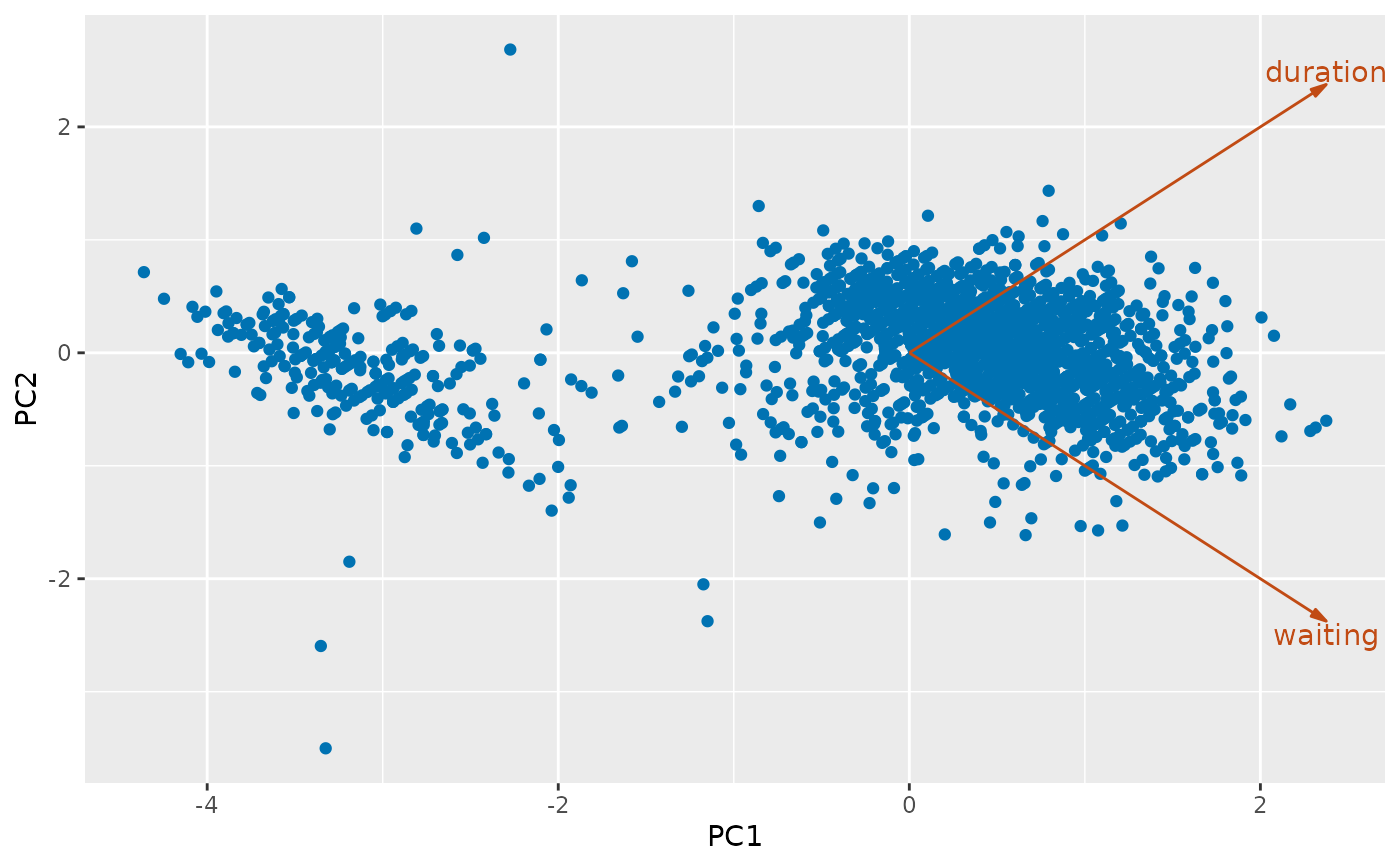
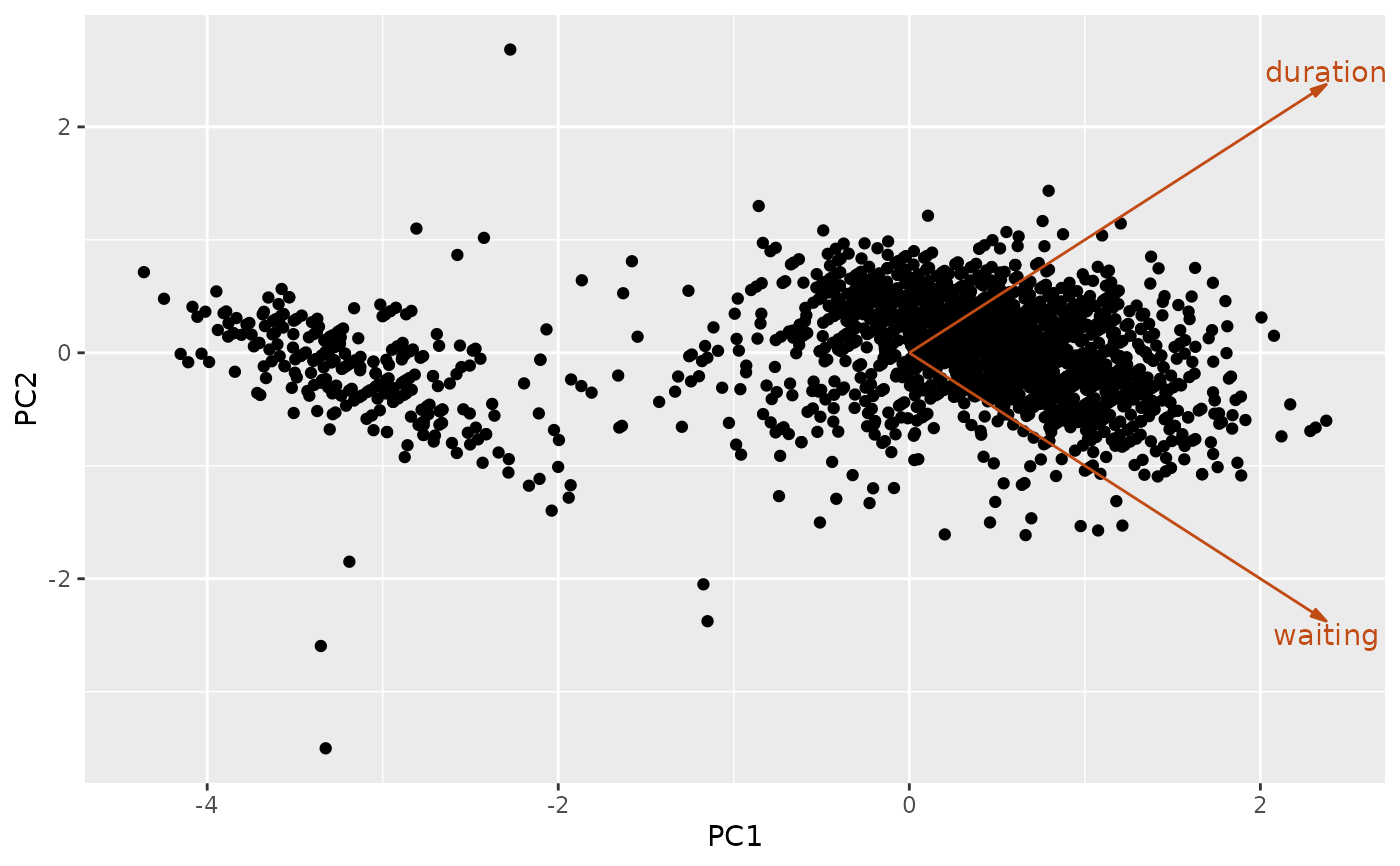
Deploying to gh-pages from @ robjhyndman/weird@13a9235543667b1b405db64c0d79a05ff12488f4 🚀

diff --git a/reference/biplot_projection.html b/reference/biplot_projection.html
@@ -1,15 +1,17 @@
 <!DOCTYPE html>
 <!-- Generated by pkgdown: do not edit by hand --><html lang="en"><head><meta http-equiv="Content-Type" content="text/html; charset=UTF-8"><meta charset="utf-8"><meta http-equiv="X-UA-Compatible" content="IE=edge"><meta name="viewport" content="width=device-width, initial-scale=1, shrink-to-fit=no"><title>Biplot of a two-dimensional projection — biplot_projection • weird</title><!-- katex math --><link rel="stylesheet" href="https://cdn.jsdelivr.net/npm/katex@0.16.11/dist/katex.min.css" integrity="sha384-nB0miv6/jRmo5UMMR1wu3Gz6NLsoTkbqJghGIsx//Rlm+ZU03BU6SQNC66uf4l5+" crossorigin="anonymous"><script defer src="https://cdn.jsdelivr.net/npm/katex@0.16.11/dist/katex.min.js" integrity="sha384-7zkQWkzuo3B5mTepMUcHkMB5jZaolc2xDwL6VFqjFALcbeS9Ggm/Yr2r3Dy4lfFg" crossorigin="anonymous"></script><script defer src="https://cdn.jsdelivr.net/npm/katex@0.16.11/dist/contrib/auto-render.min.js" integrity="sha384-43gviWU0YVjaDtb/GhzOouOXtZMP/7XUzwPTstBeZFe/+rCMvRwr4yROQP43s0Xk" crossorigin="anonymous" onload="renderMathInElement(document.body);"></script><script src="../katex-auto.js"></script><script src="../deps/jquery-3.6.0/jquery-3.6.0.min.js"></script><meta name="viewport" content="width=device-width, initial-scale=1, shrink-to-fit=no"><link href="../deps/bootstrap-5.3.8/bootstrap.min.css" rel="stylesheet"><script src="../deps/bootstrap-5.3.8/bootstrap.bundle.min.js"></script><link href="../deps/Fira_Sans-0.4.10/font.css" rel="stylesheet"><link href="../deps/font-awesome-6.5.2/css/all.min.css" rel="stylesheet"><link href="../deps/font-awesome-6.5.2/css/v4-shims.min.css" rel="stylesheet"><script src="../deps/headroom-0.11.0/headroom.min.js"></script><script src="../deps/headroom-0.11.0/jQuery.headroom.min.js"></script><script src="../deps/bootstrap-toc-1.0.1/bootstrap-toc.min.js"></script><script src="../deps/clipboard.js-2.0.11/clipboard.min.js"></script><script src="../deps/search-1.0.0/autocomplete.jquery.min.js"></script><script src="../deps/search-1.0.0/fuse.min.js"></script><script src="../deps/search-1.0.0/mark.min.js"></script><!-- pkgdown --><script src="../pkgdown.js"></script><link href="../extra.css" rel="stylesheet"><meta property="og:title" content="Biplot of a two-dimensional projection — biplot_projection"><meta name="description" content="Draw a two-dimensional projection of the scores with the
 original variable axes overlaid as arrows (loadings), as in a biplot. Pass
-object (the output of stats::prcomp() or an rrcov Pca* function);
-otherwise supply scores and loadings directly. The arrows are stretched
-by a common factor so that the longest arrow just reaches the edge of the
-point cloud, and only loadings longer than label_threshold are labelled."><meta property="og:description" content="Draw a two-dimensional projection of the scores with the
+object (the output of stats::prcomp() or an rrcov::Pca* function);
+otherwise supply scores and loadings directly. All scores should be
+centred about the origin. The arrows are stretched by a common factor so that
+the longest arrow just reaches the edge of the point cloud, and only loadings
+longer than label_threshold are labelled."><meta property="og:description" content="Draw a two-dimensional projection of the scores with the
 original variable axes overlaid as arrows (loadings), as in a biplot. Pass
-object (the output of stats::prcomp() or an rrcov Pca* function);
-otherwise supply scores and loadings directly. The arrows are stretched
-by a common factor so that the longest arrow just reaches the edge of the
-point cloud, and only loadings longer than label_threshold are labelled."><link rel="stylesheet" href="https://cdn.jsdelivr.net/npm/hack-font@3/build/web/hack-subset.css"></head><body>
+object (the output of stats::prcomp() or an rrcov::Pca* function);
+otherwise supply scores and loadings directly. All scores should be
+centred about the origin. The arrows are stretched by a common factor so that
+the longest arrow just reaches the edge of the point cloud, and only loadings
+longer than label_threshold are labelled."><link rel="stylesheet" href="https://cdn.jsdelivr.net/npm/hack-font@3/build/web/hack-subset.css"></head><body>
     <a href="#main" class="visually-hidden-focusable">Skip to contents</a>
 
 
@@ -46,10 +48,11 @@ point cloud, and only loadings longer than label_threshold are labelled."><link 
     <div class="ref-description section level2">
     <p>Draw a two-dimensional projection of the scores with the
 original variable axes overlaid as arrows (loadings), as in a biplot. Pass
-<code>object</code> (the output of <code><a href="https://rdrr.io/r/stats/prcomp.html" class="external-link">stats::prcomp()</a></code> or an rrcov <code>Pca*</code> function);
-otherwise supply <code>scores</code> and <code>loadings</code> directly. The arrows are stretched
-by a common factor so that the longest arrow just reaches the edge of the
-point cloud, and only loadings longer than <code>label_threshold</code> are labelled.</p>
+<code>object</code> (the output of <code><a href="https://rdrr.io/r/stats/prcomp.html" class="external-link">stats::prcomp()</a></code> or an <code>rrcov::Pca*</code> function);
+otherwise supply <code>scores</code> and <code>loadings</code> directly. All scores should be
+centred about the origin. The arrows are stretched by a common factor so that
+the longest arrow just reaches the edge of the point cloud, and only loadings
+longer than <code>label_threshold</code> are labelled.</p>
     </div>
 
     <div class="section level2">
@@ -59,9 +62,8 @@ point cloud, and only loadings longer than <code>label_threshold</code> are labe
 <span>  scores <span class="op">=</span> <span class="cn">NULL</span>,</span>
 <span>  loadings <span class="op">=</span> <span class="cn">NULL</span>,</span>
 <span>  label_threshold <span class="op">=</span> <span class="fl">0</span>,</span>
-<span>  alpha <span class="op">=</span> <span class="fl">1</span>,</span>
-<span>  point_colour <span class="op">=</span> <span class="st">"#0072B2"</span>,</span>
-<span>  arrow_colour <span class="op">=</span> <span class="st">"#c14b14"</span></span>
+<span>  arrow_colour <span class="op">=</span> <span class="st">"#c14b14"</span>,</span>
+<span>  <span class="va">...</span></span>
 <span><span class="op">)</span></span></code></pre></div>
     </div>
 
@@ -70,15 +72,15 @@ point cloud, and only loadings longer than <code>label_threshold</code> are labe
 
 
 <dl><dt id="arg-object">object<a class="anchor" aria-label="anchor" href="#arg-object"></a></dt>
-<dd><p>Optionally, the output of <code><a href="https://rdrr.io/r/stats/prcomp.html" class="external-link">stats::prcomp()</a></code> or an rrcov <code>Pca*</code>
+<dd><p>Optionally, the output of <code><a href="https://rdrr.io/r/stats/prcomp.html" class="external-link">stats::prcomp()</a></code> or an <code>rrcov::Pca*</code>
 function. If supplied, the scores and loadings are extracted from it and the
 <code>scores</code> and <code>loadings</code> arguments are ignored.</p></dd>
 
 
 <dt id="arg-scores">scores<a class="anchor" aria-label="anchor" href="#arg-scores"></a></dt>
-<dd><p>A matrix or data frame of scores, with the first two columns
-used as the horizontal and vertical coordinates. Ignored if <code>object</code> is
-supplied.</p></dd>
+<dd><p>A matrix or data frame of scores centred about the origin,
+with the first two columns used as the horizontal and vertical coordinates.
+Ignored if <code>object</code> is supplied.</p></dd>
 
 
 <dt id="arg-loadings">loadings<a class="anchor" aria-label="anchor" href="#arg-loadings"></a></dt>
@@ -88,26 +90,26 @@ Ignored if <code>object</code> is supplied.</p></dd>
 
 
 <dt id="arg-label-threshold">label_threshold<a class="anchor" aria-label="anchor" href="#arg-label-threshold"></a></dt>
-<dd><p>Only loadings whose squared length exceeds this
-threshold are labelled. The default of <code>0</code> labels every loading.</p></dd>
-
-
-<dt id="arg-alpha">alpha<a class="anchor" aria-label="anchor" href="#arg-alpha"></a></dt>
-<dd><p>The transparency of the points and arrows, between <code>0</code> (fully
-transparent) and <code>1</code> (fully opaque).</p></dd>
-
-
-<dt id="arg-point-colour">point_colour<a class="anchor" aria-label="anchor" href="#arg-point-colour"></a></dt>
-<dd><p>Colour of the points.</p></dd>
+<dd><p>Only loadings whose absolute length exceeds this
+threshold are labelled. The default of <code>0</code> labels every non-zero loading.</p></dd>
 
 
 <dt id="arg-arrow-colour">arrow_colour<a class="anchor" aria-label="anchor" href="#arg-arrow-colour"></a></dt>
 <dd><p>Colour of the arrows and labels.</p></dd>
 
+
+<dt id="arg--">...<a class="anchor" aria-label="anchor" href="#arg--"></a></dt>
+<dd><p>Additional arguments passed to <code><a href="https://ggplot2.tidyverse.org/reference/geom_point.html" class="external-link">ggplot2::geom_point()</a></code>.</p></dd>
+
 </dl></div>
     <div class="section level2">
     <h2 id="value">Value<a class="anchor" aria-label="anchor" href="#value"></a></h2>
     <p>A <code>ggplot</code> object.</p>
+    </div>
+    <div class="section level2">
+    <h2 id="references">References<a class="anchor" aria-label="anchor" href="#references"></a></h2>
+    <p>Hyndman, R J (2026) "That's weird: Anomaly detection using R",
+Chapter 9, <a href="https://OTexts.com/weird/" class="external-link">https://OTexts.com/weird/</a>.</p>
     </div>
     <div class="section level2">
     <h2 id="author">Author<a class="anchor" aria-label="anchor" href="#author"></a></h2>

diff --git a/reference/outlier_map.html b/reference/outlier_map.html
@@ -119,7 +119,6 @@ ignored when <code>scores</code> and <code>loadings</code> are passed directly.<
 <span>  scores <span class="op">=</span> <span class="cn">NULL</span>,</span>
 <span>  loadings <span class="op">=</span> <span class="cn">NULL</span>,</span>
 <span>  show_thresholds <span class="op">=</span> <span class="cn">TRUE</span>,</span>
-<span>  alpha <span class="op">=</span> <span class="fl">0.7</span>,</span>
 <span>  <span class="va">...</span></span>
 <span><span class="op">)</span></span></code></pre></div>
     </div>
@@ -136,8 +135,9 @@ ignored.</p></dd>
 
 
 <dt id="arg-data">data<a class="anchor" aria-label="anchor" href="#arg-data"></a></dt>
-<dd><p>The original data matrix or data frame used to compute the PCA.
-Required to compute the orthogonal distances, except when <code>object</code> is an
+<dd><p>The original data matrix or data frame used to compute the
+projection, scaled if the projection was computed on scaled data. This is
+required to compute the orthogonal distances, except when <code>object</code> is a
 rrcov <code>Pca*</code> object (which stores them).</p></dd>
 
 
@@ -156,11 +156,6 @@ retained component. Ignored if <code>object</code> is supplied.</p></dd>
 object, the score-distance and orthogonal-distance cutoffs are drawn as
 dashed lines and observations are coloured by type. Ignored when <code>scores</code>
 and <code>loadings</code> are passed directly.</p></dd>
-
-
-<dt id="arg-alpha">alpha<a class="anchor" aria-label="anchor" href="#arg-alpha"></a></dt>
-<dd><p>The transparency of the points, between <code>0</code> (fully transparent)
-and <code>1</code> (fully opaque).</p></dd>
 
 
 <dt id="arg--">...<a class="anchor" aria-label="anchor" href="#arg--"></a></dt>

diff --git a/reference/augment.Pca.html b/reference/augment.Pca.html
@@ -1,12 +1,12 @@
 <!DOCTYPE html>
-<!-- Generated by pkgdown: do not edit by hand --><html lang="en"><head><meta http-equiv="Content-Type" content="text/html; charset=UTF-8"><meta charset="utf-8"><meta http-equiv="X-UA-Compatible" content="IE=edge"><meta name="viewport" content="width=device-width, initial-scale=1, shrink-to-fit=no"><title>Augment data with results from a robust principal component analysis — augment.Pca • weird</title><!-- katex math --><link rel="stylesheet" href="https://cdn.jsdelivr.net/npm/katex@0.16.11/dist/katex.min.css" integrity="sha384-nB0miv6/jRmo5UMMR1wu3Gz6NLsoTkbqJghGIsx//Rlm+ZU03BU6SQNC66uf4l5+" crossorigin="anonymous"><script defer src="https://cdn.jsdelivr.net/npm/katex@0.16.11/dist/katex.min.js" integrity="sha384-7zkQWkzuo3B5mTepMUcHkMB5jZaolc2xDwL6VFqjFALcbeS9Ggm/Yr2r3Dy4lfFg" crossorigin="anonymous"></script><script defer src="https://cdn.jsdelivr.net/npm/katex@0.16.11/dist/contrib/auto-render.min.js" integrity="sha384-43gviWU0YVjaDtb/GhzOouOXtZMP/7XUzwPTstBeZFe/+rCMvRwr4yROQP43s0Xk" crossorigin="anonymous" onload="renderMathInElement(document.body);"></script><script src="../katex-auto.js"></script><script src="../deps/jquery-3.6.0/jquery-3.6.0.min.js"></script><meta name="viewport" content="width=device-width, initial-scale=1, shrink-to-fit=no"><link href="../deps/bootstrap-5.3.8/bootstrap.min.css" rel="stylesheet"><script src="../deps/bootstrap-5.3.8/bootstrap.bundle.min.js"></script><link href="../deps/Fira_Sans-0.4.10/font.css" rel="stylesheet"><link href="../deps/font-awesome-6.5.2/css/all.min.css" rel="stylesheet"><link href="../deps/font-awesome-6.5.2/css/v4-shims.min.css" rel="stylesheet"><script src="../deps/headroom-0.11.0/headroom.min.js"></script><script src="../deps/headroom-0.11.0/jQuery.headroom.min.js"></script><script src="../deps/bootstrap-toc-1.0.1/bootstrap-toc.min.js"></script><script src="../deps/clipboard.js-2.0.11/clipboard.min.js"></script><script src="../deps/search-1.0.0/autocomplete.jquery.min.js"></script><script src="../deps/search-1.0.0/fuse.min.js"></script><script src="../deps/search-1.0.0/mark.min.js"></script><!-- pkgdown --><script src="../pkgdown.js"></script><link href="../extra.css" rel="stylesheet"><meta property="og:title" content="Augment data with results from a robust principal component analysis — augment.Pca"><meta name="description" content="Augment the data with information from an rrcov Pca* object
+<!-- Generated by pkgdown: do not edit by hand --><html lang="en"><head><meta http-equiv="Content-Type" content="text/html; charset=UTF-8"><meta charset="utf-8"><meta http-equiv="X-UA-Compatible" content="IE=edge"><meta name="viewport" content="width=device-width, initial-scale=1, shrink-to-fit=no"><title>Augment data with results from a robust principal component analysis — augment.Pca • weird</title><!-- katex math --><link rel="stylesheet" href="https://cdn.jsdelivr.net/npm/katex@0.16.11/dist/katex.min.css" integrity="sha384-nB0miv6/jRmo5UMMR1wu3Gz6NLsoTkbqJghGIsx//Rlm+ZU03BU6SQNC66uf4l5+" crossorigin="anonymous"><script defer src="https://cdn.jsdelivr.net/npm/katex@0.16.11/dist/katex.min.js" integrity="sha384-7zkQWkzuo3B5mTepMUcHkMB5jZaolc2xDwL6VFqjFALcbeS9Ggm/Yr2r3Dy4lfFg" crossorigin="anonymous"></script><script defer src="https://cdn.jsdelivr.net/npm/katex@0.16.11/dist/contrib/auto-render.min.js" integrity="sha384-43gviWU0YVjaDtb/GhzOouOXtZMP/7XUzwPTstBeZFe/+rCMvRwr4yROQP43s0Xk" crossorigin="anonymous" onload="renderMathInElement(document.body);"></script><script src="../katex-auto.js"></script><script src="../deps/jquery-3.6.0/jquery-3.6.0.min.js"></script><meta name="viewport" content="width=device-width, initial-scale=1, shrink-to-fit=no"><link href="../deps/bootstrap-5.3.8/bootstrap.min.css" rel="stylesheet"><script src="../deps/bootstrap-5.3.8/bootstrap.bundle.min.js"></script><link href="../deps/Fira_Sans-0.4.10/font.css" rel="stylesheet"><link href="../deps/font-awesome-6.5.2/css/all.min.css" rel="stylesheet"><link href="../deps/font-awesome-6.5.2/css/v4-shims.min.css" rel="stylesheet"><script src="../deps/headroom-0.11.0/headroom.min.js"></script><script src="../deps/headroom-0.11.0/jQuery.headroom.min.js"></script><script src="../deps/bootstrap-toc-1.0.1/bootstrap-toc.min.js"></script><script src="../deps/clipboard.js-2.0.11/clipboard.min.js"></script><script src="../deps/search-1.0.0/autocomplete.jquery.min.js"></script><script src="../deps/search-1.0.0/fuse.min.js"></script><script src="../deps/search-1.0.0/mark.min.js"></script><!-- pkgdown --><script src="../pkgdown.js"></script><link href="../extra.css" rel="stylesheet"><meta property="og:title" content="Augment data with results from a robust principal component analysis — augment.Pca"><meta name="description" content="Augment the data with information from an rrcov::Pca* object
 (such as the output of rrcov::PcaHubert() or rrcov::PcaClassic()). The
 returned tibble contains the principal component scores (.fittedPC1,
 .fittedPC2, ...), the score distance (.sd) and the orthogonal distance
 (.od) of each observation. The score distance measures how far an
 observation lies from the centre within the projection subspace, while the
 orthogonal distance measures how far it lies from the subspace. If data
-is supplied, its columns are returned alongside these results."><meta property="og:description" content="Augment the data with information from an rrcov Pca* object
+is supplied, its columns are returned alongside these results."><meta property="og:description" content="Augment the data with information from an rrcov::Pca* object
 (such as the output of rrcov::PcaHubert() or rrcov::PcaClassic()). The
 returned tibble contains the principal component scores (.fittedPC1,
 .fittedPC2, ...), the score distance (.sd) and the orthogonal distance
@@ -48,7 +48,7 @@ is supplied, its columns are returned alongside these results."><link rel="style
     </div>
 
     <div class="ref-description section level2">
-    <p>Augment the data with information from an rrcov <code>Pca*</code> object
+    <p>Augment the data with information from an <code>rrcov::Pca*</code> object
 (such as the output of <code><a href="https://rdrr.io/pkg/rrcov/man/PcaHubert.html" class="external-link">rrcov::PcaHubert()</a></code> or <code><a href="https://rdrr.io/pkg/rrcov/man/PcaClassic.html" class="external-link">rrcov::PcaClassic()</a></code>). The
 returned tibble contains the principal component scores (<code>.fittedPC1</code>,
 <code>.fittedPC2</code>, ...), the score distance (<code>.sd</code>) and the orthogonal distance
@@ -69,7 +69,7 @@ is supplied, its columns are returned alongside these results.</p>
 
 
 <dl><dt id="arg-x">x<a class="anchor" aria-label="anchor" href="#arg-x"></a></dt>
-<dd><p>An rrcov <code>Pca*</code> object.</p></dd>
+<dd><p>An <code>rrcov::Pca*</code> object.</p></dd>
 
 
 <dt id="arg-data">data<a class="anchor" aria-label="anchor" href="#arg-data"></a></dt>

diff --git a/reference/biplot_projection.md b/reference/biplot_projection.md
@@ -3,11 +3,12 @@
 Draw a two-dimensional projection of the scores with the original
 variable axes overlaid as arrows (loadings), as in a biplot. Pass
 `object` (the output of
-[`stats::prcomp()`](https://rdrr.io/r/stats/prcomp.html) or an rrcov
-`Pca*` function); otherwise supply `scores` and `loadings` directly. The
-arrows are stretched by a common factor so that the longest arrow just
-reaches the edge of the point cloud, and only loadings longer than
-`label_threshold` are labelled.
+[`stats::prcomp()`](https://rdrr.io/r/stats/prcomp.html) or an
+`rrcov::Pca*` function); otherwise supply `scores` and `loadings`
+directly. All scores should be centred about the origin. The arrows are
+stretched by a common factor so that the longest arrow just reaches the
+edge of the point cloud, and only loadings longer than `label_threshold`
+are labelled.
 
 ## Usage
 
@@ -17,9 +18,8 @@ biplot_projection(
   scores = NULL,
   loadings = NULL,
   label_threshold = 0,
-  alpha = 1,
-  point_colour = "#0072B2",
-  arrow_colour = "#c14b14"
+  arrow_colour = "#c14b14",
+  ...
 )
 ```
 
@@ -28,15 +28,16 @@ biplot_projection(
 - object:
 
   Optionally, the output of
-  [`stats::prcomp()`](https://rdrr.io/r/stats/prcomp.html) or an rrcov
-  `Pca*` function. If supplied, the scores and loadings are extracted
-  from it and the `scores` and `loadings` arguments are ignored.
+  [`stats::prcomp()`](https://rdrr.io/r/stats/prcomp.html) or an
+  `rrcov::Pca*` function. If supplied, the scores and loadings are
+  extracted from it and the `scores` and `loadings` arguments are
+  ignored.
 
 - scores:
 
-  A matrix or data frame of scores, with the first two columns used as
-  the horizontal and vertical coordinates. Ignored if `object` is
-  supplied.
+  A matrix or data frame of scores centred about the origin, with the
+  first two columns used as the horizontal and vertical coordinates.
+  Ignored if `object` is supplied.
 
 - loadings:
 
@@ -46,25 +47,26 @@ biplot_projection(
 
 - label_threshold:
 
-  Only loadings whose squared length exceeds this threshold are
-  labelled. The default of `0` labels every loading.
-
-- alpha:
-
-  The transparency of the points and arrows, between `0` (fully
-  transparent) and `1` (fully opaque).
-
-- point_colour:
-
-  Colour of the points.
+  Only loadings whose absolute length exceeds this threshold are
+  labelled. The default of `0` labels every non-zero loading.
 
 - arrow_colour:
 
   Colour of the arrows and labels.
 
+- ...:
+
+  Additional arguments passed to
+  [`ggplot2::geom_point()`](https://ggplot2.tidyverse.org/reference/geom_point.html).
+
 ## Value
 
 A `ggplot` object.
+
+## References
+
+Hyndman, R J (2026) "That's weird: Anomaly detection using R", Chapter
+9, <https://OTexts.com/weird/>.
 
 ## Author
 

diff --git a/reference/outlier_map.md b/reference/outlier_map.md
@@ -42,7 +42,6 @@ outlier_map(
   scores = NULL,
   loadings = NULL,
   show_thresholds = TRUE,
-  alpha = 0.7,
   ...
 )
 ```
@@ -59,9 +58,10 @@ outlier_map(
 
 - data:
 
-  The original data matrix or data frame used to compute the PCA.
-  Required to compute the orthogonal distances, except when `object` is
-  an rrcov `Pca*` object (which stores them).
+  The original data matrix or data frame used to compute the projection,
+  scaled if the projection was computed on scaled data. This is required
+  to compute the orthogonal distances, except when `object` is a rrcov
+  `Pca*` object (which stores them).
 
 - scores:
 
@@ -79,11 +79,6 @@ outlier_map(
   score-distance and orthogonal-distance cutoffs are drawn as dashed
   lines and observations are coloured by type. Ignored when `scores` and
   `loadings` are passed directly.
-
-- alpha:
-
-  The transparency of the points, between `0` (fully transparent) and
-  `1` (fully opaque).
 
 - ...:
 

diff --git a/reference/augment.Pca.md b/reference/augment.Pca.md
@@ -1,6 +1,6 @@
 # Augment data with results from a robust principal component analysis
 
-Augment the data with information from an rrcov `Pca*` object (such as
+Augment the data with information from an `rrcov::Pca*` object (such as
 the output of
 [`rrcov::PcaHubert()`](https://rdrr.io/pkg/rrcov/man/PcaHubert.html) or
 [`rrcov::PcaClassic()`](https://rdrr.io/pkg/rrcov/man/PcaClassic.html)).
@@ -23,7 +23,7 @@ augment(x, data = NULL, ...)
 
 - x:
 
-  An rrcov `Pca*` object.
+  An `rrcov::Pca*` object.
 
 - data:
 